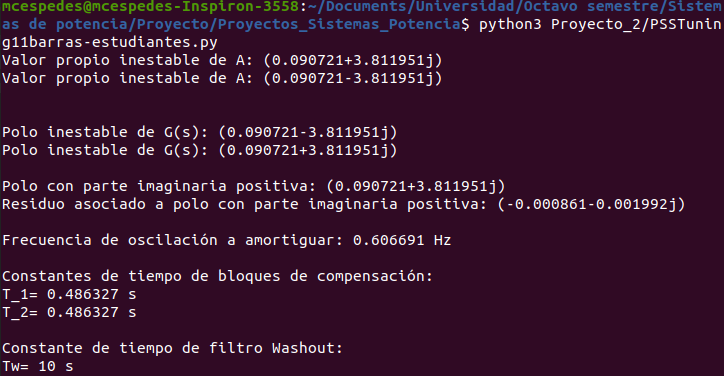
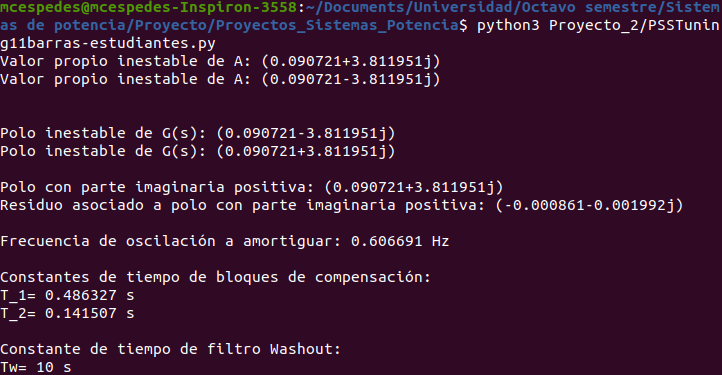
Corrección

diff --git a/Proyecto_2/PSSTuning11barras-estudiantes.py b/Proyecto_2/PSSTuning11barras-estudiantes.py
@@ -107,7 +107,7 @@ print("\nConstantes de tiempo de bloques de compensación:")
 T1p=Tp
 print("T_1= "+str(np.around(T1p, places))+" s")
 T2p=ap*Tp
-print("T_2= "+str(np.around(T1p, places))+" s")
+print("T_2= "+str(np.around(T2p, places))+" s")
 
 Tw=10 #Revisar si debe ser 1.5 o 10
 print("\nConstante de tiempo de filtro Washout:")
